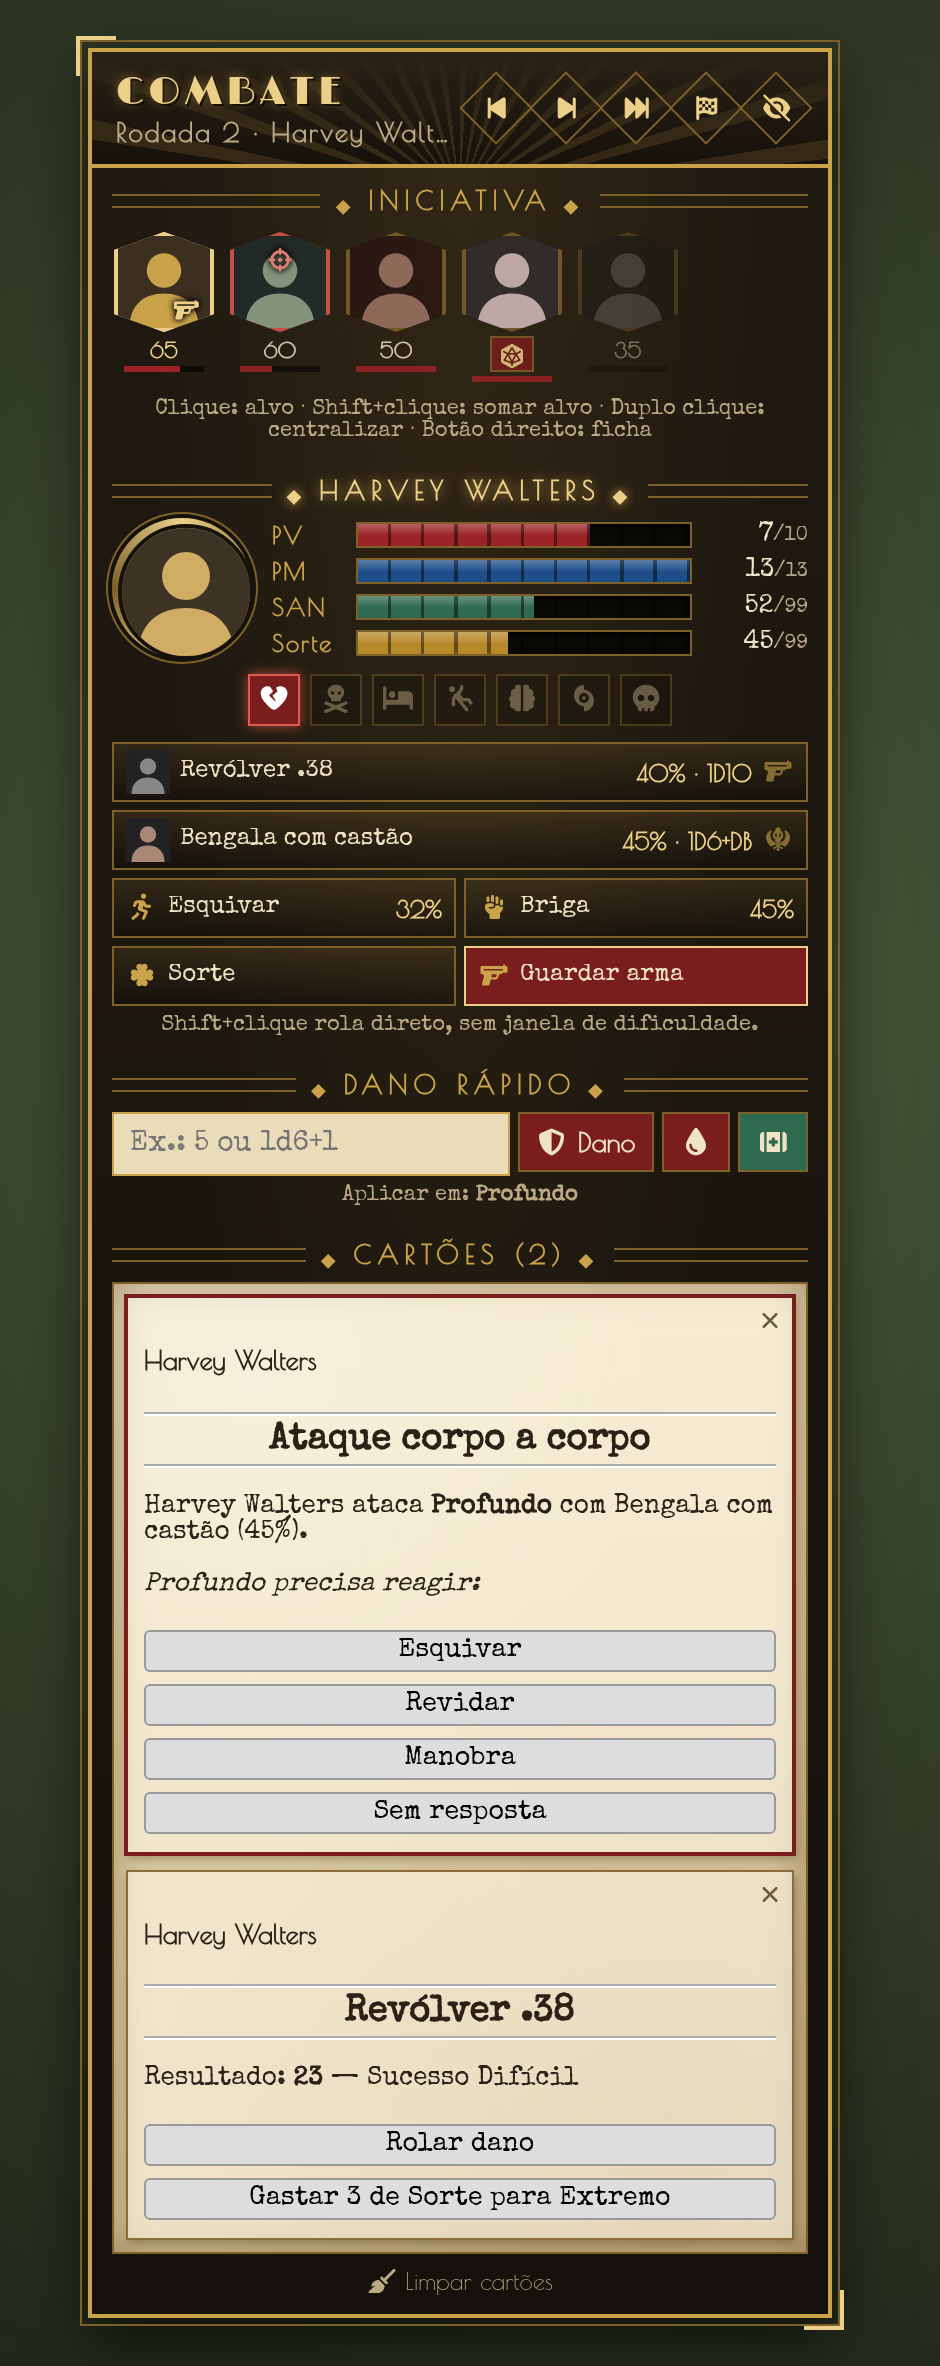
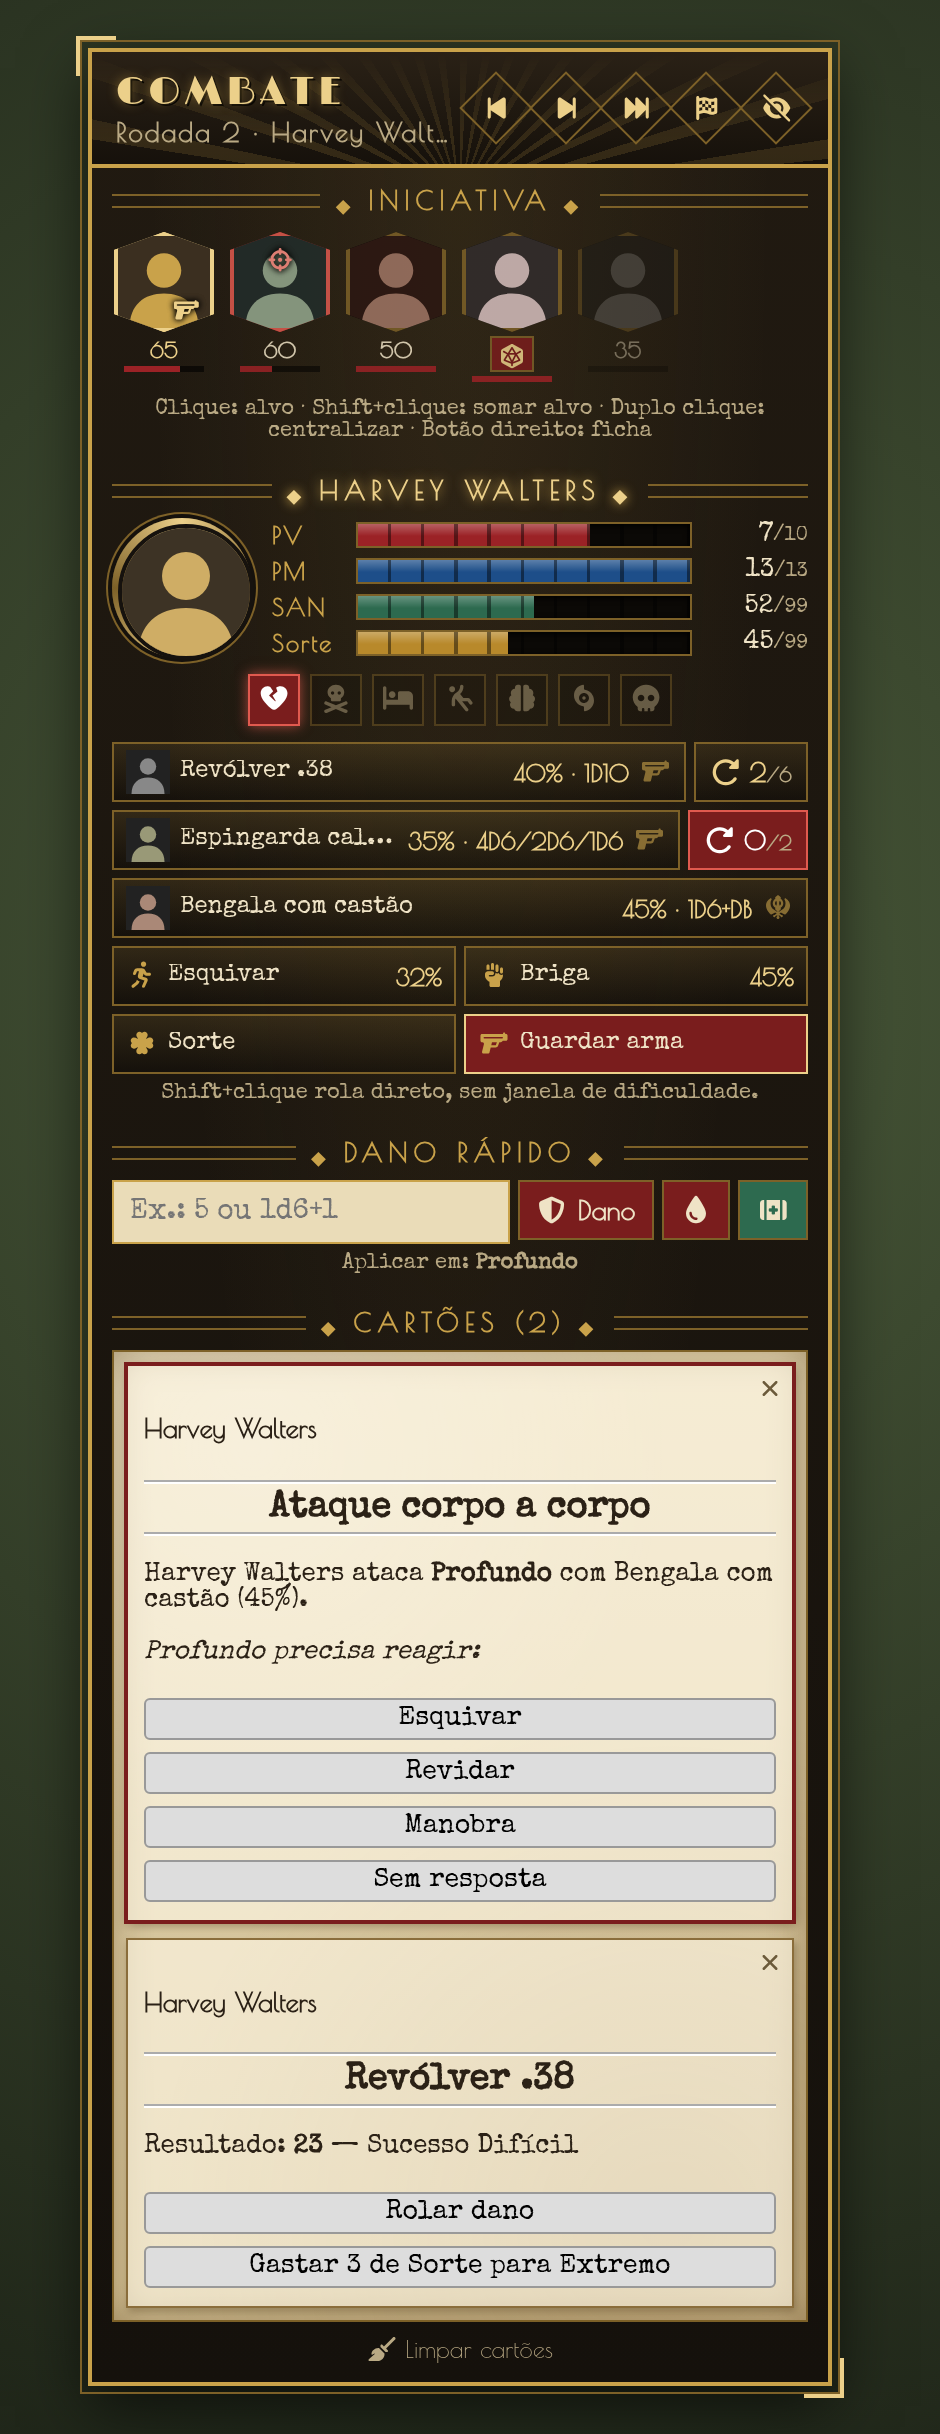
Adiciona botão de recarregar arma no HUD
Armas com capacidade de munição mostram balas/capacidade ao lado do
ataque. Clique recarrega o pente (weapon.system.reload, anuncia no chat),
Shift+clique põe uma bala e botão direito tira uma, como na ficha do
CoC7. Arma vazia pisca em vermelho. Versão 0.1.1.

Claude-Session: https://claude.ai/code/session_0131UHvh8cHVszGuFpVfN6BM

Changed region(s): [[0.0926, 0.0309, 0.8638, 0.9873]]

diff --git a/scripts/hud.js b/scripts/hud.js
@@ -29,6 +29,7 @@ export class CombatCthulhuHUD extends HandlebarsApplicationMixin(ApplicationV2) 
       cthudRollInitiative: CombatCthulhuHUD.#onRollInitiative,
       cthudToggleGun: CombatCthulhuHUD.#onToggleGun,
       cthudWeapon: CombatCthulhuHUD.#onWeapon,
+      cthudReload: CombatCthulhuHUD.#onReload,
       cthudSkill: CombatCthulhuHUD.#onSkill,
       cthudLuck: CombatCthulhuHUD.#onLuck,
       cthudCondition: CombatCthulhuHUD.#onCondition,
@@ -202,6 +203,15 @@ export class CombatCthulhuHUD extends HandlebarsApplicationMixin(ApplicationV2) 
       })
     }
 
+    // Botão direito no recarregar: gasta/remove uma bala.
+    el.querySelectorAll('.cthud-reload').forEach(btn => {
+      btn.addEventListener('contextmenu', async (event) => {
+        event.preventDefault()
+        const weapon = this.focusActor?.items.get(btn.dataset.itemId)
+        if (weapon?.isOwner) await weapon.system.shootAmmunition(1)
+      })
+    })
+
     this.#bindDrag()
     this.#bindInitiative()
   }
@@ -306,6 +316,28 @@ export class CombatCthulhuHUD extends HandlebarsApplicationMixin(ApplicationV2) 
     const actor = this.focusActor
     if (!actor) return
     actor.weaponCheck({ id: target.dataset.itemId }, event.shiftKey)
+  }
+
+  /**
+   * Recarregar arma (mesma lógica da ficha do CoC7):
+   * clique = pente cheio · Shift+clique = +1 bala · botão direito = −1 bala.
+   */
+  static async #onReload (event, target) {
+    const actor = this.focusActor
+    const weapon = actor?.items.get(target.dataset.itemId)
+    if (!weapon?.isOwner || weapon.type !== 'weapon') return
+    if (event.shiftKey) return weapon.system.addAmmunition()
+    const before = parseInt(weapon.system.ammo ?? 0, 10) || 0
+    const max = parseInt(weapon.system.bullets ?? 0, 10) || 0
+    if (before >= max) {
+      ui.notifications.info(game.i18n.format('COMBATCTHUD.Reload.alreadyFull', { weapon: weapon.name }))
+      return
+    }
+    await weapon.system.reload()
+    await ChatMessage.create({
+      speaker: ChatMessage.getSpeaker({ actor }),
+      content: `<p><i class="fa-solid fa-rotate-right"></i> ${game.i18n.format('COMBATCTHUD.Reload.done', { name: actor.name, weapon: weapon.name, ammo: max, bullets: max })}</p>`
+    })
   }
 
   static #onSkill (event, target) {

diff --git a/styles/combatcthud.css b/styles/combatcthud.css
@@ -432,7 +432,43 @@
   font-family: var(--cthud-font-body);
   font-size: 12px;
 }
-#combatcthud .cthud-weapon { grid-column: span 2; }
+#combatcthud .cthud-weapon-row {
+  grid-column: span 2;
+  display: flex;
+  gap: 4px;
+  min-width: 0;
+}
+#combatcthud .cthud-weapon { flex: 1; min-width: 0; }
+#combatcthud .cthud-reload {
+  flex: none;
+  display: flex;
+  align-items: center;
+  gap: 4px;
+  height: 30px;
+  padding: 0 7px;
+  color: var(--cthud-gold-light);
+  background: linear-gradient(180deg, rgba(201, 162, 74, 0.12), rgba(0, 0, 0, 0.25));
+  border: 1px solid var(--cthud-gold-dark);
+  border-radius: 0;
+  font-family: var(--cthud-font-label);
+  font-weight: bold;
+  font-size: 13px;
+}
+#combatcthud .cthud-reload small { color: var(--cthud-ink-dim); font-size: 10px; }
+#combatcthud .cthud-reload:hover {
+  border-color: var(--cthud-gold-light);
+  box-shadow: 0 0 6px rgba(201, 162, 74, 0.5);
+}
+#combatcthud .cthud-reload.full > i { opacity: 0.4; }
+#combatcthud .cthud-reload.empty {
+  color: #fff;
+  background: var(--cthud-active);
+  border-color: #e05a4f;
+  animation: cthud-pulse 1.4s ease-in-out infinite;
+}
+@keyframes cthud-pulse {
+  50% { box-shadow: 0 0 8px rgba(224, 90, 79, 0.9); }
+}
 #combatcthud .cthud-action:hover {
   border-color: var(--cthud-gold-light);
   background: linear-gradient(180deg, rgba(201, 162, 74, 0.35), rgba(0, 0, 0, 0.2));

diff --git a/scripts/actor-data.js b/scripts/actor-data.js
@@ -61,13 +61,20 @@ export function getWeapons (actor) {
     .filter(i => i.type === 'weapon')
     .map(w => {
       const skill = actor.items.get(w.system.skill?.main?.id)
+      const bullets = parseInt(w.system.bullets ?? 0, 10) || 0
+      const ammo = parseInt(w.system.ammo ?? 0, 10) || 0
       return {
         id: w.id,
         name: w.name,
         img: w.img,
         ranged: !!w.system.properties?.rngd,
         skill: skill?.system?.value ?? null,
-        damage: w.system.range?.normal?.damage ?? ''
+        damage: w.system.range?.normal?.damage ?? '',
+        // Armas com capacidade (system.bullets) têm munição (system.ammo).
+        reloadable: bullets > 0,
+        bullets,
+        ammo,
+        full: ammo >= bullets
       }
     })
     .sort((a, b) => a.name.localeCompare(b.name))

diff --git a/README.md b/README.md
@@ -8,7 +8,7 @@ HUD de combate para **Foundry VTT v13** com o sistema **Call of Cthulhu 7th Edit
 
 - **Iniciativa**: retratos na ordem do combate, com destaque para quem está no turno. Clique marca o alvo (Shift soma alvos), duplo clique centraliza no token e o botão direito abre a ficha. Mostra a arma de fogo em punho e respeita a regra opcional de iniciativa do CoC7 (nível de sucesso).
 - **Investigador em foco**: barras de PV, PM, SAN e Sorte, além das condições do CoC7 (ferimento grave, morrendo, inconsciente, caído, insanidades e morto). As condições podem ser ligadas e desligadas com um clique.
-- **Ações rápidas**: atacar com cada arma do personagem, usando o fluxo original do CoC7 (corpo a corpo ou à distância, contra o alvo selecionado). Também tem Esquivar, as perícias de Lutar, teste de Sorte, rolar iniciativa e sacar/guardar arma. Com Shift+clique a rolagem sai direto, sem a janela de dificuldade.
+- **Ações rápidas**: atacar com cada arma do personagem, usando o fluxo original do CoC7 (corpo a corpo ou à distância, contra o alvo selecionado). Armas de fogo mostram a munição (ex.: 4/6) e têm botão de **recarregar**: clique enche o pente, Shift+clique põe uma bala e o botão direito tira uma. Também tem Esquivar, as perícias de Lutar, teste de Sorte, rolar iniciativa e sacar/guardar arma. Com Shift+clique a rolagem sai direto, sem a janela de dificuldade.
 - **Dano rápido**: aceita um valor fixo ou uma fórmula (`1d6+1`). Aplica dano com armadura, dano direto ou cura nos alvos selecionados, usando a lógica do CoC7 (ferimento grave, morte etc.).
 - **Cartões do sistema no HUD**: os cartões de combate que o CoC7 envia ao chat aparecem no HUD e **funcionam lá**. Isso vale para ataque corpo a corpo e à distância, esquivar/revidar/manobra, rolar dano, gastar sorte, forçar teste, testes de SAN/CON e testes opostos. Opcionalmente, eles podem ser escondidos do chat.
 - Mestre e jogadores usam o HUD. Cada jogador vê o próprio investigador, e os PNJs aparecem só com nome e retrato.
